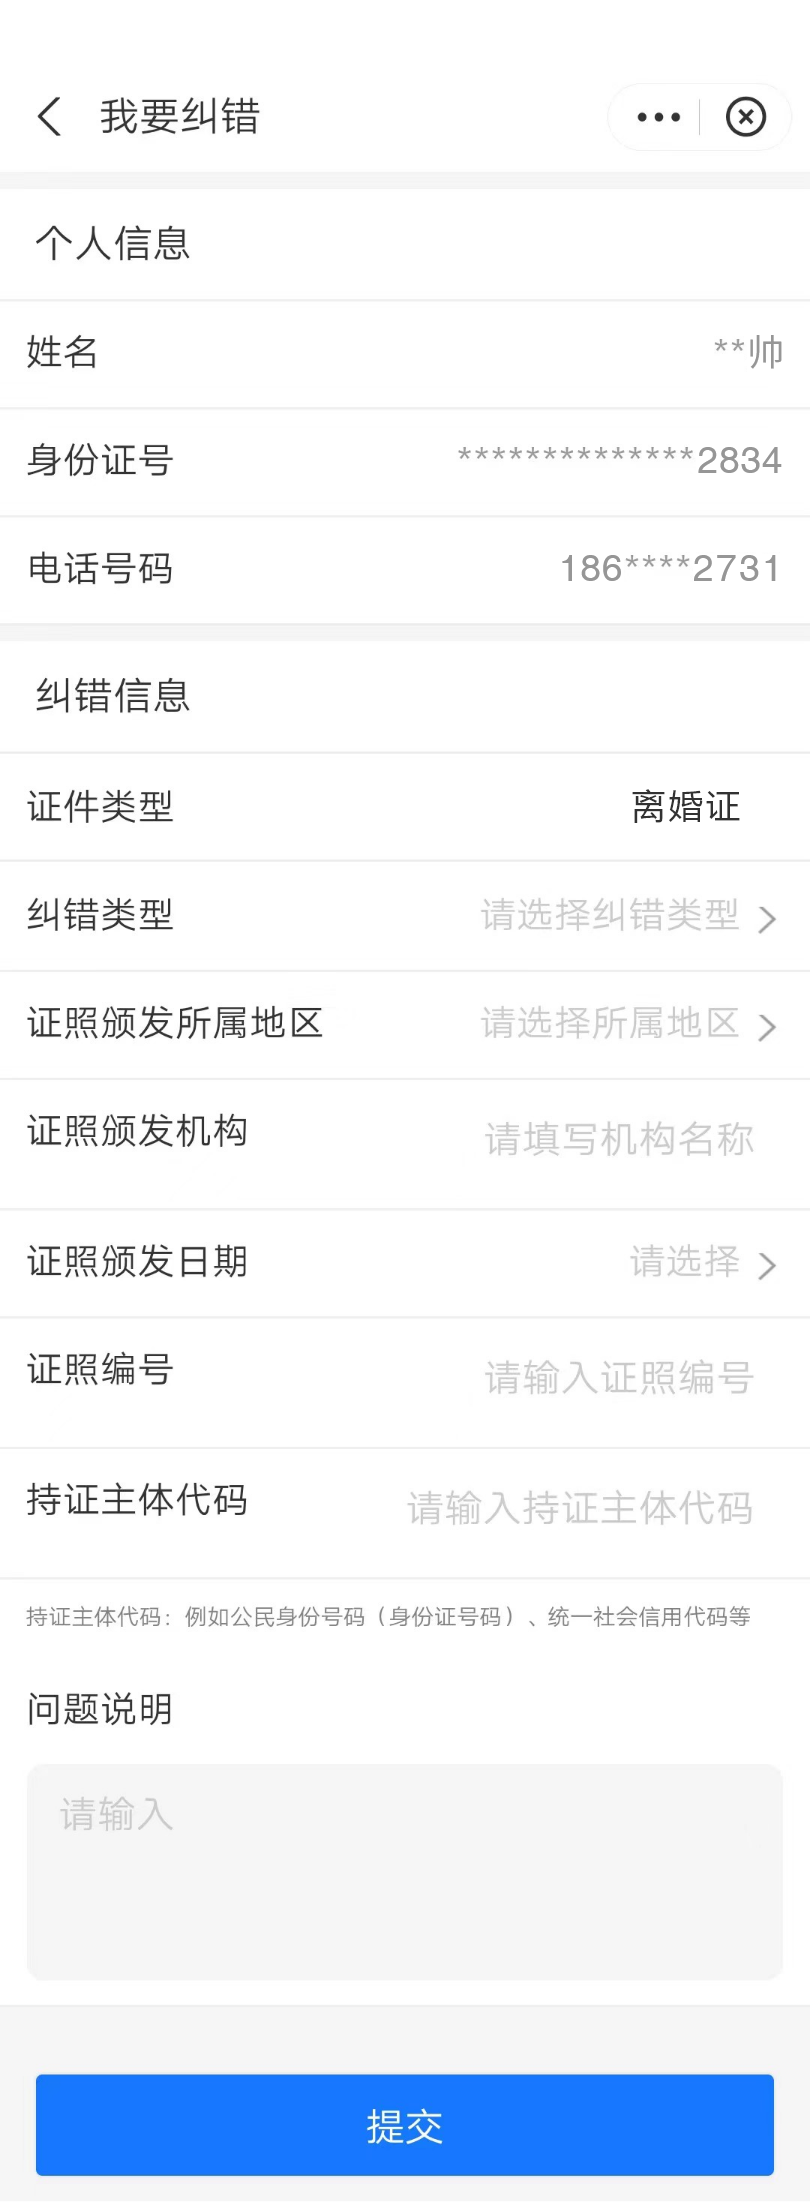
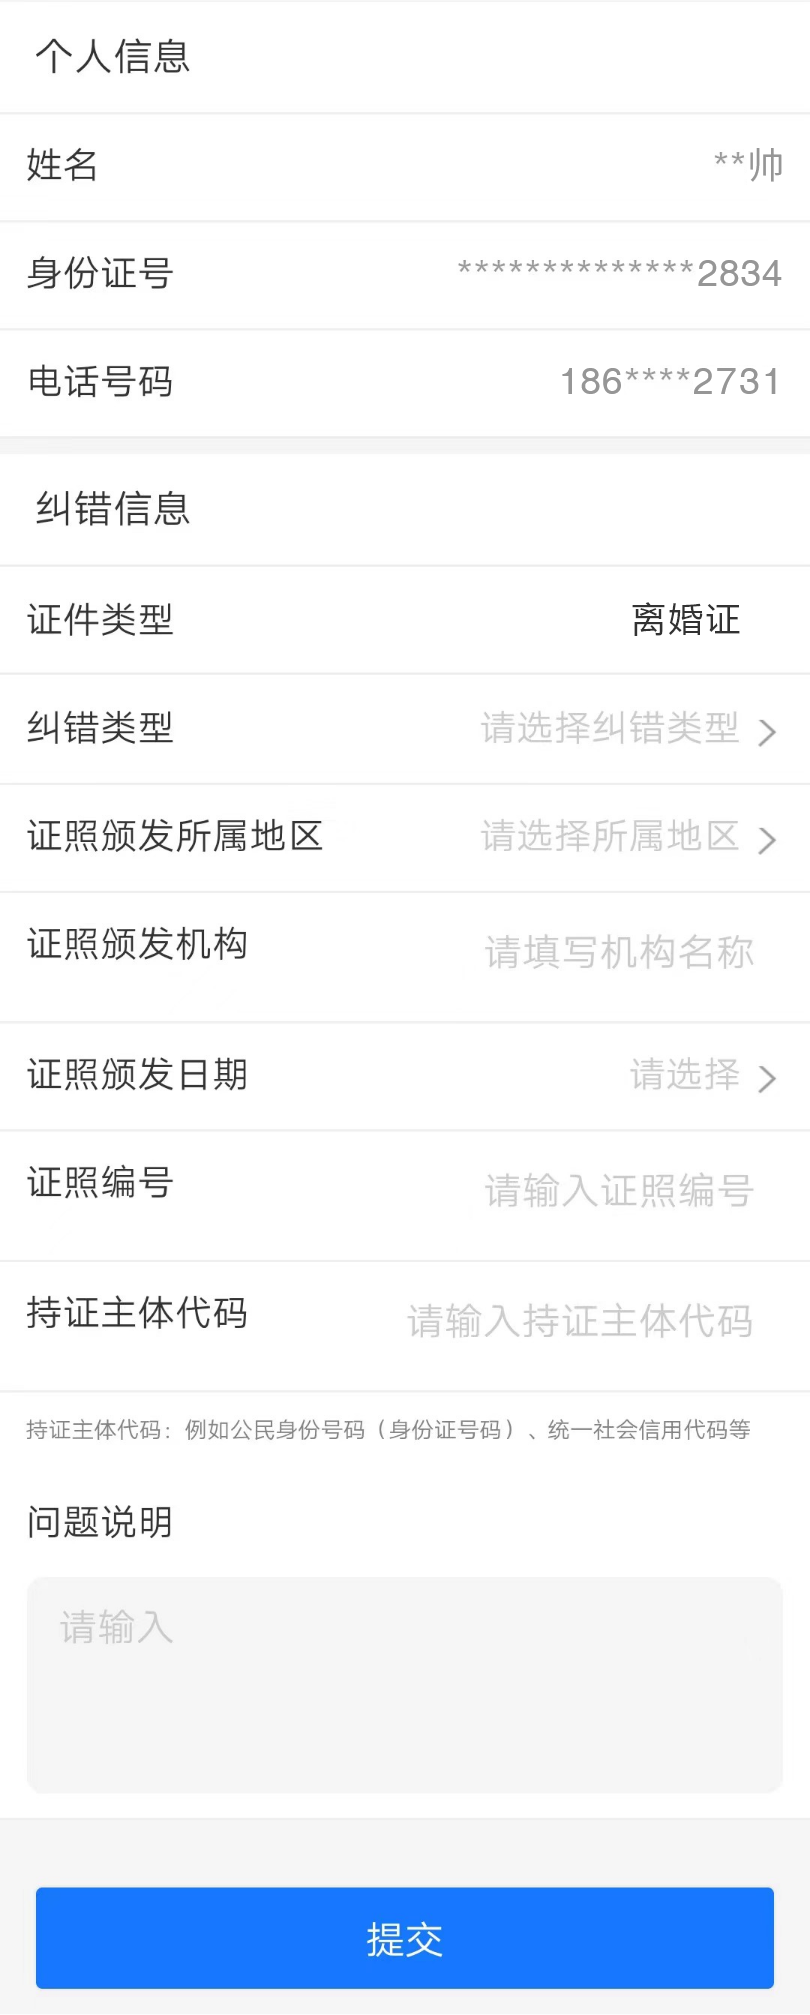
修改样式

diff --git a/pages/component/collectError/collectError.vue b/pages/component/collectError/collectError.vue
@@ -13,7 +13,6 @@
 			}
 		},
 		mounted() {
-			console.log(uni.getStorageSync('selectMarried'))
 			this.index = uni.getStorageSync('selectMarried')
 		},
 		methods: {
@@ -25,6 +24,6 @@
 <style lang="scss" scoped>
 .image-sty {
 	width: 100vw;
-	height: 2000rpx;
+	height: 1900rpx;
 }
 </style>

diff --git a/uni_modules/uni-list/components/uni-list-item/uni-list-item.vue b/uni_modules/uni-list/components/uni-list-item/uni-list-item.vue
@@ -354,7 +354,6 @@
 	}
 	.uni-list-item__content-title {
 		margin-top: 20rpx;
-		margin-left: -4rpx;
 		font-size: $uni-font-size-base;
 		color: #333;
 		font-weight: bold;
